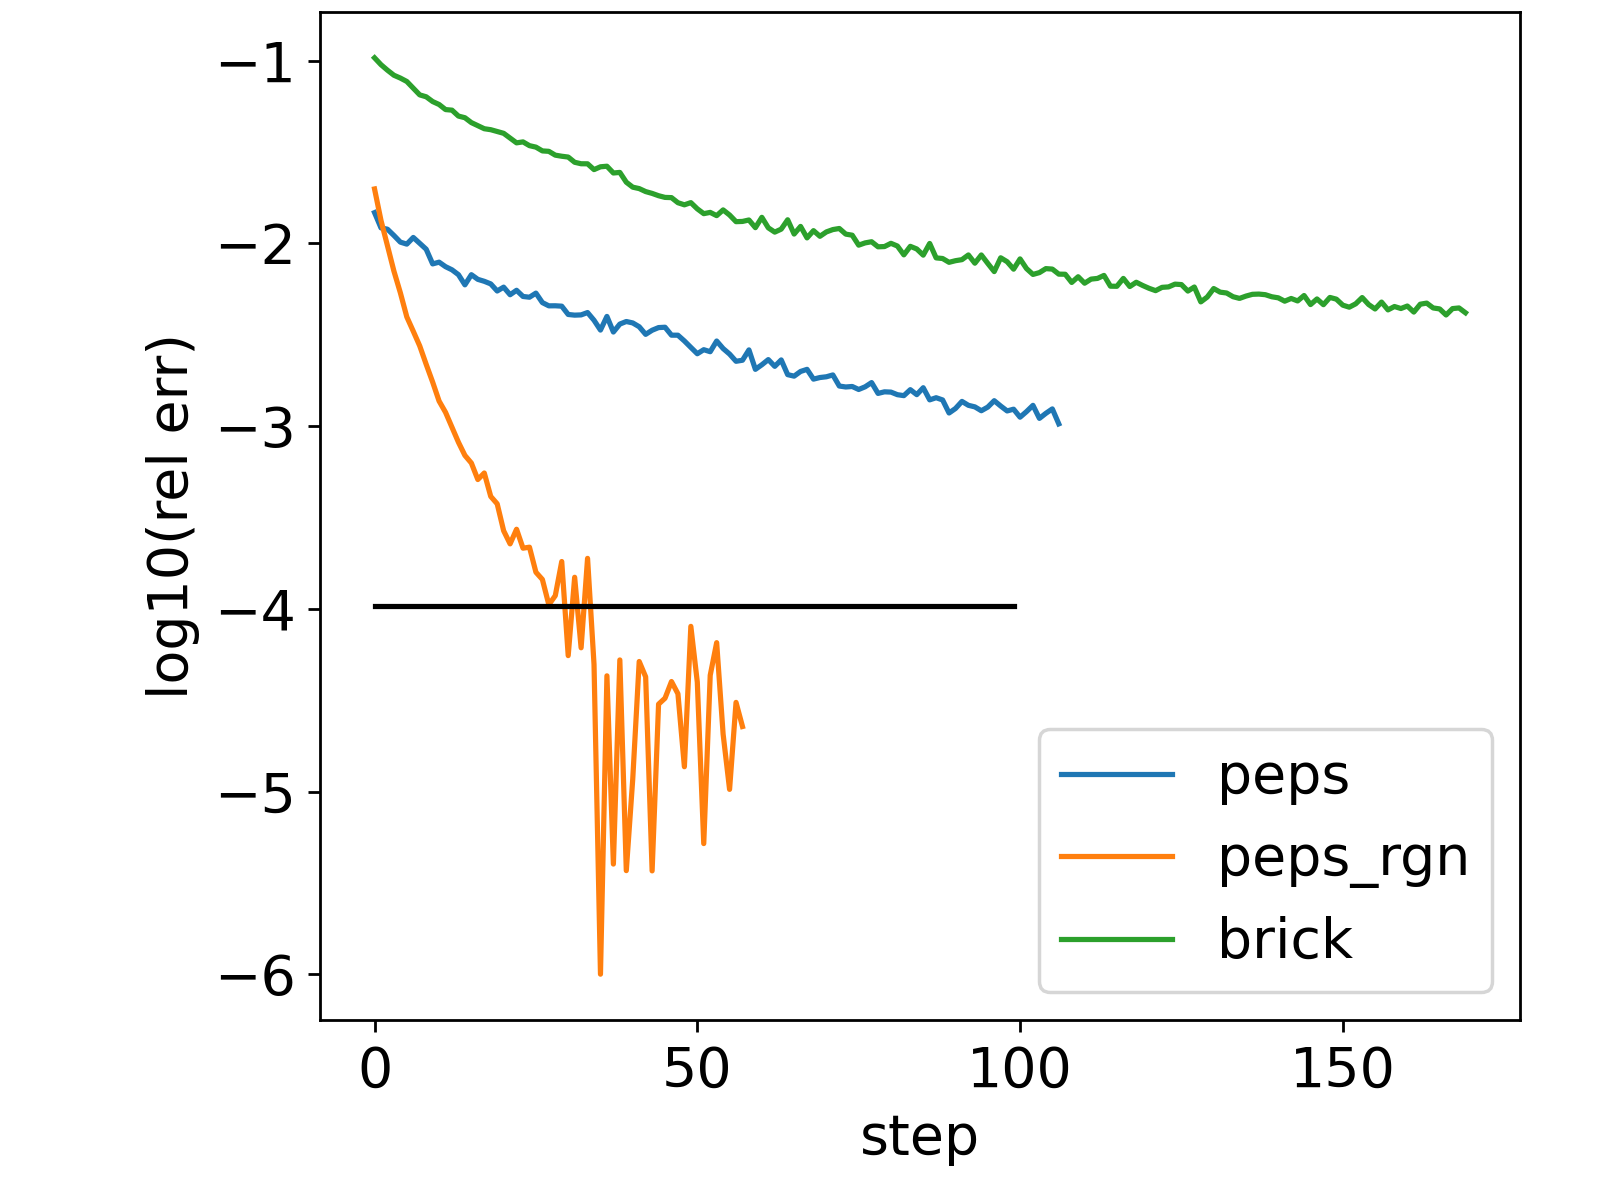
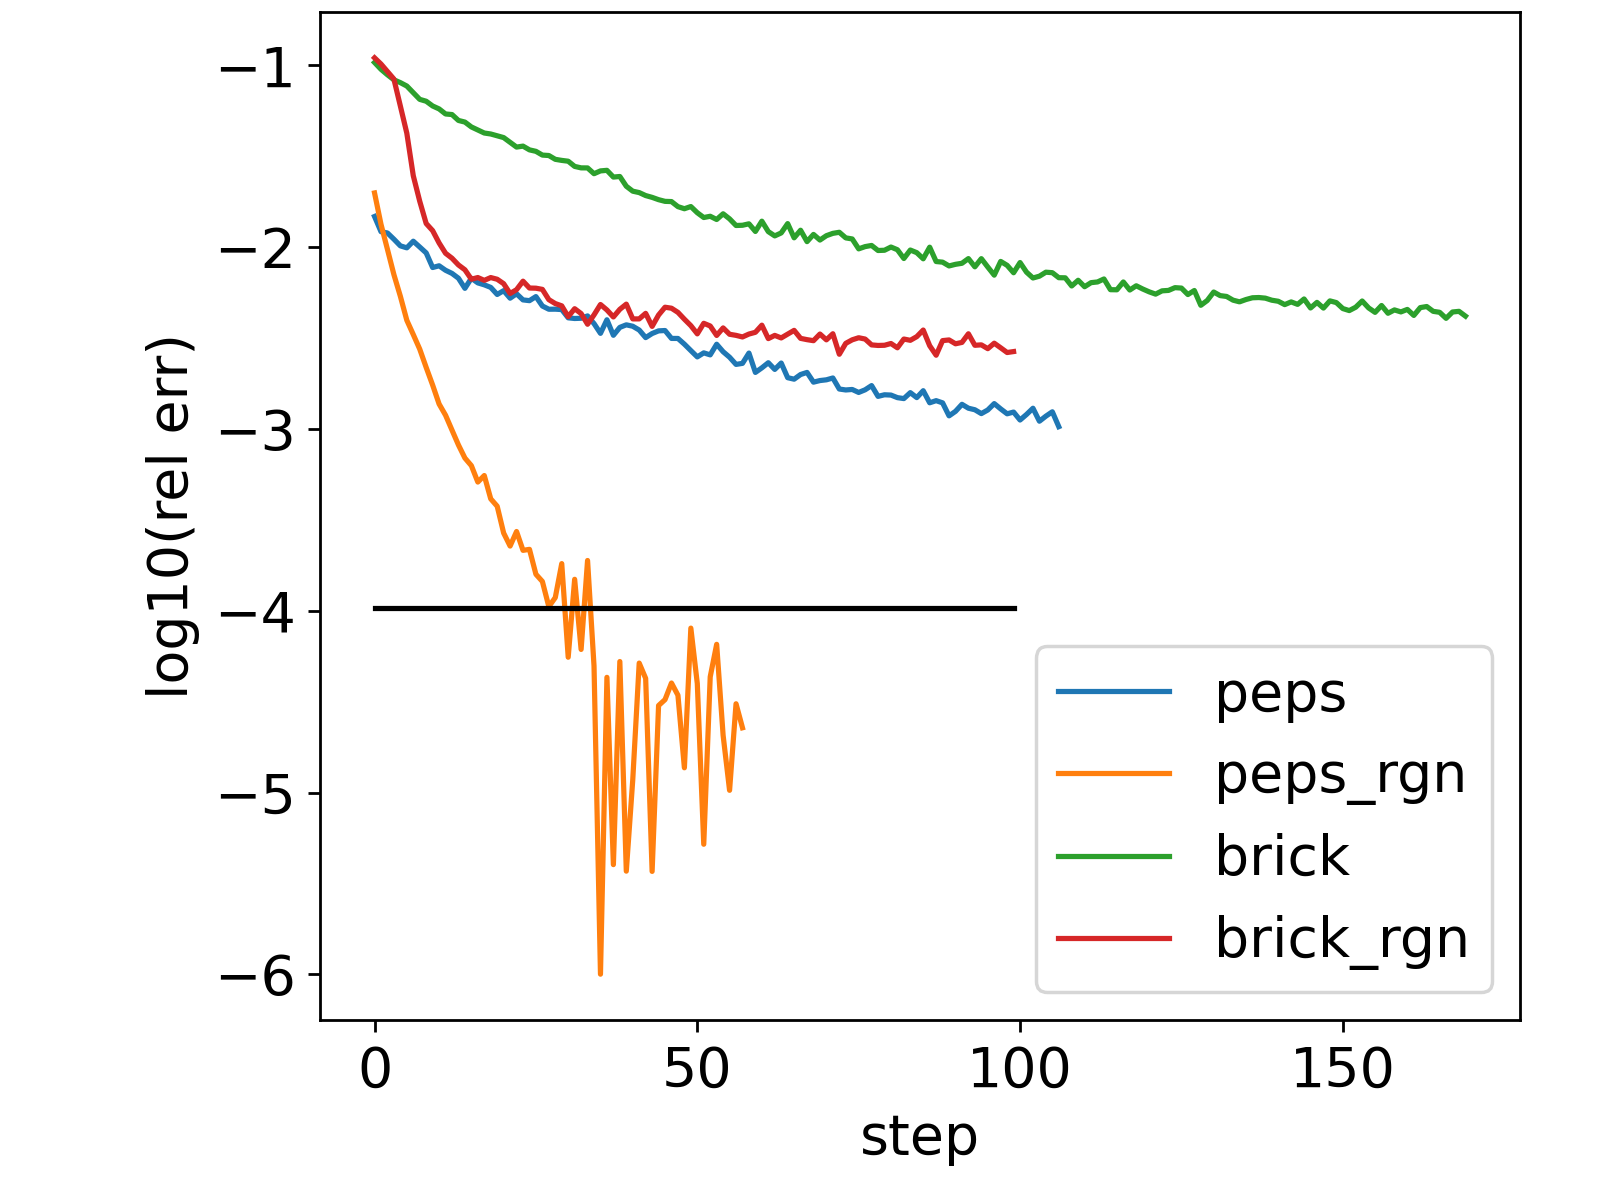
push

diff --git a/j1j2_8x8/D6/plot.py b/j1j2_8x8/D6/plot.py
@@ -11,7 +11,7 @@ exact = -0.48373
 ref = -0.48368
 fig,ax = plt.subplots(nrows=1,ncols=1)
 
-for tmpdir in ('peps','peps_rgn','brick'):
+for tmpdir in ('peps','peps_rgn','brick','brick_rgn'):
     out = open(tmpdir+'/summary.out', 'r').readlines()
     e = []
     for l in out:
